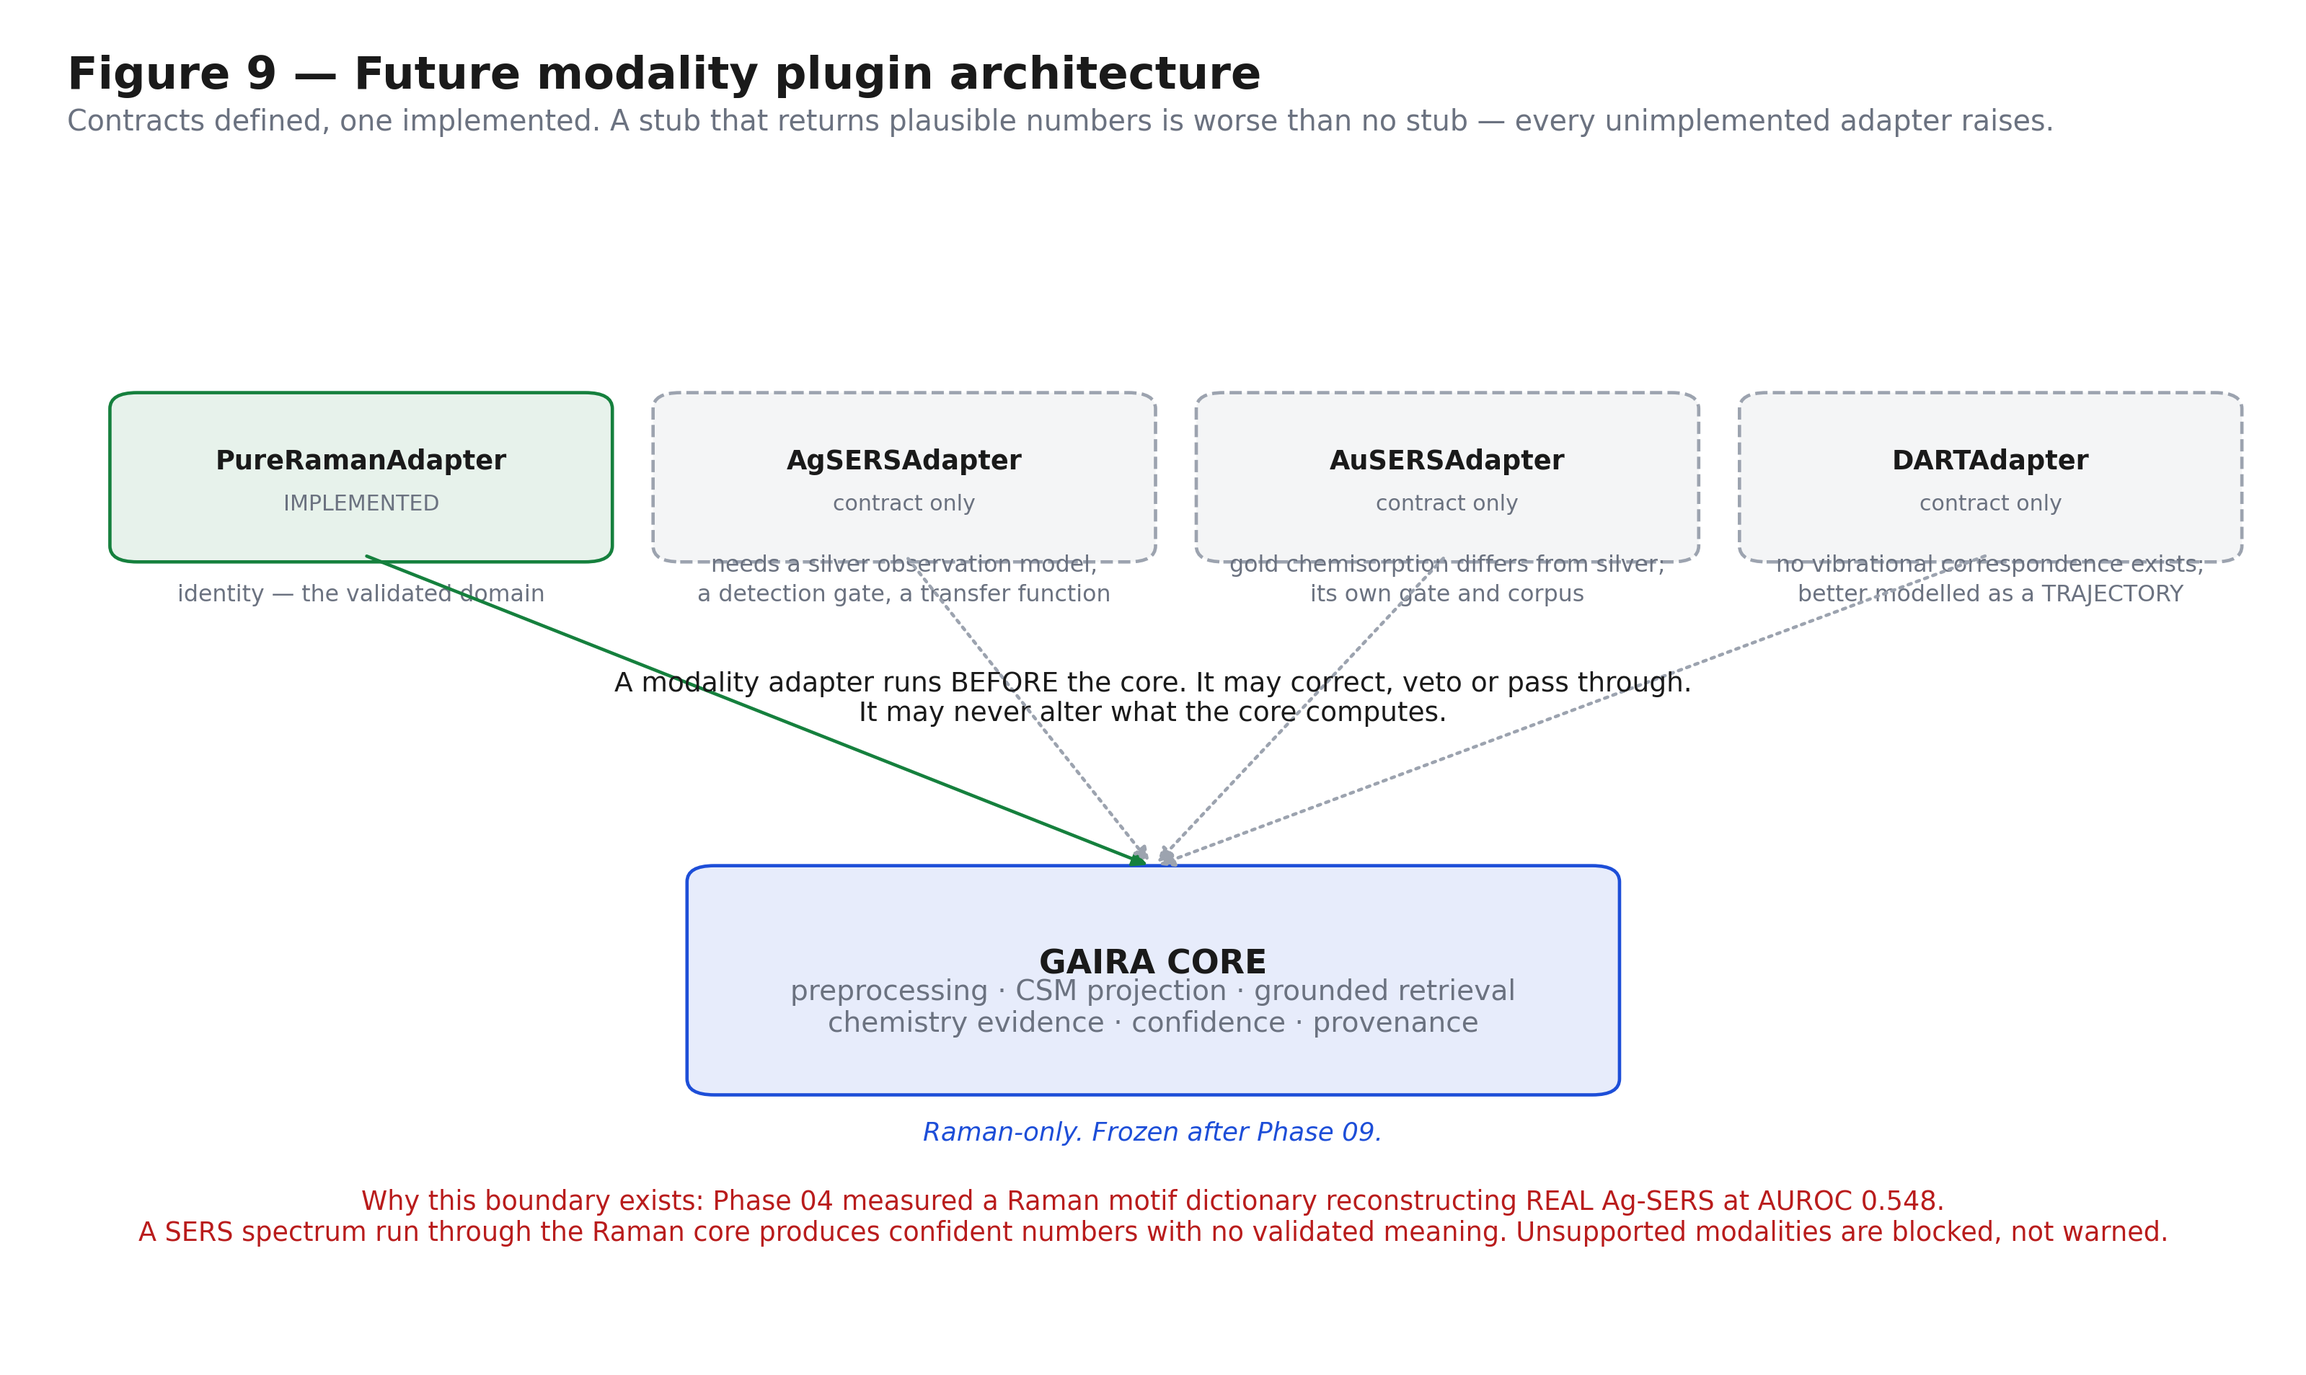
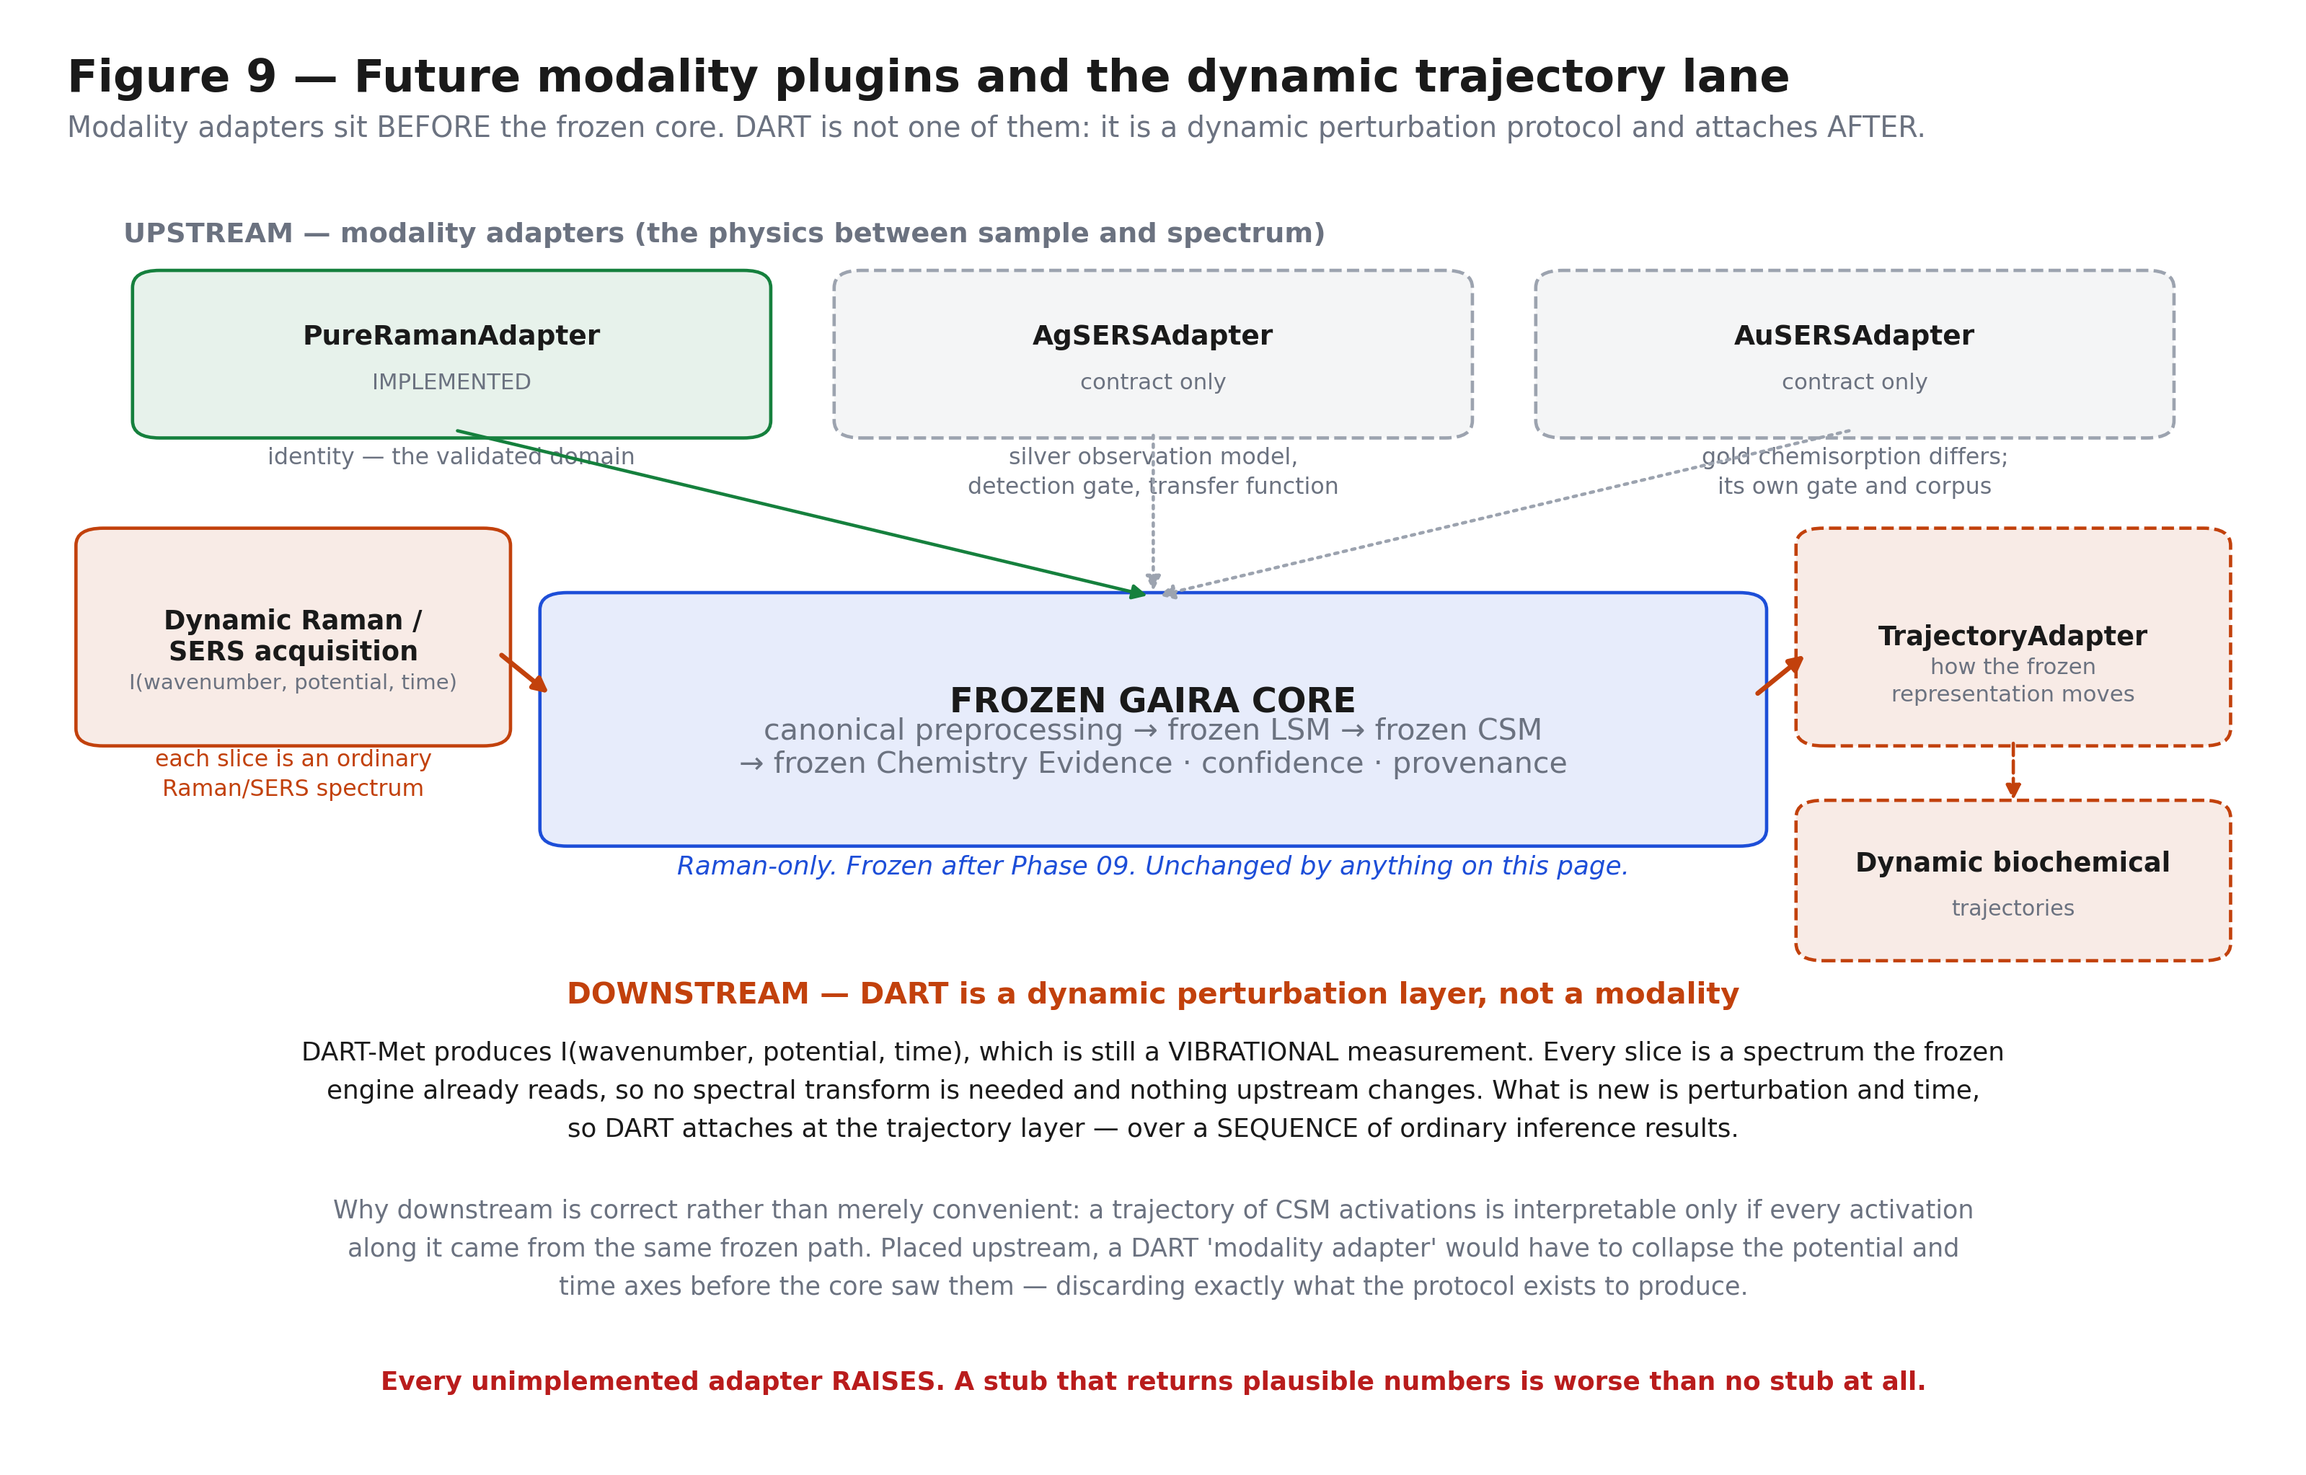
docs(figures): update plugin and agent architecture diagrams
Figures only. No scientific output regenerated.

Figure 9 — "Future modality plugins and the dynamic trajectory lane"

  DART is removed from the upstream modality row, where it never belonged, and
  the figure now shows two distinct lanes around an unchanged frozen core:

    UPSTREAM (before the core)   PureRamanAdapter · AgSERSAdapter ·
                                 AuSERSAdapter — the physics between sample
                                 and spectrum

    DOWNSTREAM (after the core)  Dynamic Raman/SERS acquisition
                                 I(wavenumber, potential, time)
                                     → FROZEN GAIRA CORE (each slice is an
                                       ordinary Raman/SERS spectrum)
                                     → TrajectoryAdapter
                                     → Dynamic biochemical trajectories

  The core panel is captioned "Raman-only. Frozen after Phase 09. Unchanged by
  anything on this page", which is the point of the figure: the frozen spectral
  representation stays untouched and dynamic inference happens after the
  canonical representation, not before it.

Figure 11 — "The agent boundary"

  Strengthened from a two-tier sketch into an explicit directional statement.
  The permitted chain is drawn as one one-directional spine —

      LLM → MCP → Frozen Runtime → Frozen Engine

  — and the forbidden shortcut LLM → scientific computation is drawn beneath it
[…]

diff --git a/results/v7_rebuild/phase10/code/make_figures.py b/results/v7_rebuild/phase10/code/make_figures.py
@@ -27,6 +27,7 @@ DPI = 300
 INK, MUTED, RULE = "#1a1a1a", "#6b7280", "#d1d5db"
 FROZEN, RUNTIME, SURFACE, FUTURE, BAD, GOOD = (
     "#1d4ed8", "#0f766e", "#7c3aed", "#9ca3af", "#b91c1c", "#15803d")
+ACCENT_D = "#c2410c"          # the dynamic / trajectory lane
 plt.rcParams.update({"font.family": "DejaVu Sans", "savefig.dpi": DPI, "figure.dpi": 110})
 
 
@@ -332,36 +333,65 @@ def main() -> int:
             ha="center", fontsize=8.6, color=MUTED)
     save(fig, "F08_provenance_chain.png")
 
-    # ── F09 modality plugins ─────────────────────────────────────────────────
-    fig, ax = canvas(title="Figure 9 — Future modality plugin architecture",
-                     sub="Contracts defined, one implemented. A stub that returns plausible "
-                         "numbers is worse than no stub — every unimplemented adapter raises.")
-    box(ax, 0.30, 0.20, 0.40, 0.16, "GAIRA CORE",
-        "preprocessing · CSM projection · grounded retrieval\nchemistry evidence · confidence · "
-        "provenance", FROZEN, fs=11)
-    ax.text(0.50, 0.16, "Raman-only. Frozen after Phase 09.", ha="center", fontsize=8.6,
-            color=FROZEN, style="italic")
+    # ── F09 modality plugins + the dynamic trajectory lane ──────────────────
+    fig, ax = canvas(h=8.6, title="Figure 9 — Future modality plugins and the dynamic "
+                                  "trajectory lane",
+                     sub="Modality adapters sit BEFORE the frozen core. DART is not one of them: "
+                         "it is a dynamic perturbation protocol and attaches AFTER.")
+    ax.text(0.045, 0.860, "UPSTREAM — modality adapters (the physics between sample and spectrum)",
+            fontsize=9.2, weight="bold", color=MUTED, va="top")
     mods = [("PureRamanAdapter", "IMPLEMENTED", GOOD, "identity — the validated domain"),
             ("AgSERSAdapter", "contract only", FUTURE,
-             "needs a silver observation model,\na detection gate, a transfer function"),
+             "silver observation model,\ndetection gate, transfer function"),
             ("AuSERSAdapter", "contract only", FUTURE,
-             "gold chemisorption differs from silver;\nits own gate and corpus"),
-            ("DARTAdapter", "contract only", FUTURE,
-             "no vibrational correspondence exists;\nbetter modelled as a TRAJECTORY")]
+             "gold chemisorption differs;\nits own gate and corpus")]
     for i, (n, status, colour, note) in enumerate(mods):
-        x = 0.045 + i * 0.24
-        box(ax, x, 0.60, 0.21, 0.115, n, status, colour, fs=8.8,
+        x = 0.055 + i * 0.31
+        box(ax, x, 0.715, 0.27, 0.105, n, status, colour, fs=9.0,
             ls="-" if colour is GOOD else "--")
-        ax.text(x + 0.105, 0.565, note, ha="center", fontsize=7.6, color=MUTED, linespacing=1.4)
-        arrow(ax, x + 0.105, 0.60, 0.50, 0.365, colour, ls="-" if colour is GOOD else ":")
-    ax.text(0.5, 0.475, "A modality adapter runs BEFORE the core. It may correct, veto or pass "
-            "through.\nIt may never alter what the core computes.",
-            ha="center", fontsize=9.0, color=INK)
-    ax.text(0.5, 0.085, "Why this boundary exists: Phase 04 measured a Raman motif dictionary "
-            "reconstructing REAL Ag-SERS at AUROC 0.548.\n"
-            "A SERS spectrum run through the Raman core produces confident numbers with no "
-            "validated meaning. Unsupported modalities are blocked, not warned.",
-            ha="center", fontsize=8.8, color=BAD)
+        ax.text(x + 0.135, 0.703, note, ha="center", va="top", fontsize=7.6, color=MUTED,
+                linespacing=1.4)
+        arrow(ax, x + 0.135, 0.715, 0.50, 0.598, colour, ls="-" if colour is GOOD else ":")
+
+    box(ax, 0.235, 0.430, 0.53, 0.165, "FROZEN GAIRA CORE",
+        "canonical preprocessing → frozen LSM → frozen CSM\n→ frozen Chemistry Evidence · "
+        "confidence · provenance", FROZEN, fs=11.5)
+    ax.text(0.50, 0.418, "Raman-only. Frozen after Phase 09. Unchanged by anything on this page.",
+            ha="center", va="top", fontsize=8.6, color=FROZEN, style="italic")
+
+    box(ax, 0.030, 0.500, 0.180, 0.140, "Dynamic Raman /\nSERS acquisition", "", ACCENT_D,
+        fs=8.8)
+    ax.text(0.120, 0.545, "I(wavenumber, potential, time)", ha="center", va="top",
+            fontsize=7.0, color=MUTED)
+    arrow(ax, 0.210, 0.560, 0.235, 0.528, ACCENT_D, lw=1.6)
+    ax.text(0.120, 0.492, "each slice is an ordinary\nRaman/SERS spectrum", ha="center",
+            va="top", fontsize=7.6, color=ACCENT_D, linespacing=1.4)
+
+    box(ax, 0.790, 0.500, 0.180, 0.140, "TrajectoryAdapter", "", ACCENT_D, fs=8.8, ls="--")
+    ax.text(0.880, 0.556, "how the frozen\nrepresentation moves", ha="center", va="top",
+            fontsize=7.4, color=MUTED, linespacing=1.4)
+    arrow(ax, 0.765, 0.528, 0.790, 0.560, ACCENT_D, lw=1.6)
+    box(ax, 0.790, 0.350, 0.180, 0.100, "Dynamic biochemical", "trajectories", ACCENT_D,
+        fs=8.8, ls="--")
+    arrow(ax, 0.880, 0.500, 0.880, 0.452, ACCENT_D, ls="--")
+
+    ax.text(0.50, 0.330, "DOWNSTREAM — DART is a dynamic perturbation layer, not a modality",
+            ha="center", va="top", fontsize=9.8, weight="bold", color=ACCENT_D)
+    ax.text(0.50, 0.288, "DART-Met produces I(wavenumber, potential, time), which is still a "
+            "VIBRATIONAL measurement. Every slice is a spectrum the frozen\nengine already "
+            "reads, so no spectral transform is needed and nothing upstream changes. What is new "
+            "is perturbation and time,\nso DART attaches at the trajectory layer — over a "
+            "SEQUENCE of ordinary inference results.",
+            ha="center", va="top", fontsize=8.6, color=INK, linespacing=1.7)
+    ax.text(0.50, 0.178, "Why downstream is correct rather than merely convenient: a trajectory "
+            "of CSM activations is interpretable only if every activation\nalong it came from "
+            "the same frozen path. Placed upstream, a DART 'modality adapter' would have to "
+            "collapse the potential and\ntime axes before the core saw them — discarding "
+            "exactly what the protocol exists to produce.",
+            ha="center", va="top", fontsize=8.4, color=MUTED, linespacing=1.7)
+    ax.text(0.50, 0.058, "Every unimplemented adapter RAISES. A stub that returns plausible "
+            "numbers is worse than no stub at all.",
+            ha="center", va="top", fontsize=8.6, color=BAD, weight="bold")
     save(fig, "F09_modality_plugins.png")
 
     # ── F10 context plugins ──────────────────────────────────────────────────
@@ -400,34 +430,62 @@ def main() -> int:
     save(fig, "F10_context_plugins.png")
 
     # ── F11 agent boundary ───────────────────────────────────────────────────
-    fig, ax = canvas(title="Figure 11 — Where a future agent connects",
+    fig, ax = canvas(h=8.6, title="Figure 11 — The agent boundary",
                      sub="An LLM sits ABOVE the validated science, never inside it. Phase 10 "
-                         "ships no model; this is the boundary Phase 11 would respect.")
-    ax.add_patch(mp.Rectangle((0.04, 0.66), 0.92, 0.20, fc="#fef2f2", ec=BAD, lw=1.2,
-                              linestyle="--"))
-    ax.text(0.06, 0.835, "AGENT LAYER — not implemented in Phase 10", fontsize=10,
-            weight="bold", color=BAD)
-    for i, (n, s) in enumerate([("plan", "which tools, in what order"),
-                                ("call MCP tools", "read-only, validated"),
-                                ("narrate", "rephrase the engine's own numbers"),
-                                ("cite", "every claim → a result field")]):
-        box(ax, 0.07 + i * 0.225, 0.685, 0.19, 0.09, n, s, BAD, fs=8.6, ls="--")
-    ax.text(0.5, 0.615, "▼  MCP tool calls only  ▼", ha="center", fontsize=9.5, color=BAD,
-            weight="bold")
-    box(ax, 0.22, 0.44, 0.56, 0.13, "MCP TOOL SERVER — 8 read-only tools",
-        "the same runtime every other surface uses", SURFACE, fs=10.5)
-    box(ax, 0.22, 0.24, 0.56, 0.13, "FROZEN SCIENTIFIC ENGINE",
-        "computes every number an agent is allowed to state", FROZEN, fs=10.5)
-    arrow(ax, 0.50, 0.44, 0.50, 0.375, FROZEN, lw=1.8)
-    left = ("An agent MAY\n\n· choose which tools to call\n· ask for more evidence\n"
-            "· rephrase the deterministic text\n· compare results it obtained\n"
-            "· surface the caveats verbatim")
-    right = ("An agent MUST NEVER\n\n· compute a similarity or an activation\n"
-             "· estimate a chemistry axis\n· re-rank retrieval output\n"
-             "· assert a molecular identification\n· drop a scope warning\n"
-             "· infer a biological or clinical state")
-    ax.text(0.05, 0.19, left, fontsize=8.6, color=GOOD, va="top", linespacing=1.6)
-    ax.text(0.53, 0.19, right, fontsize=8.6, color=BAD, va="top", linespacing=1.6)
+                         "ships no model; this is the boundary Phase 11 must respect.")
+
+    # the permitted chain, drawn as a single one-directional spine
+    ax.text(0.50, 0.885, "THE ONLY PERMITTED CHAIN", ha="center", va="top", fontsize=9.4,
+            weight="bold", color=GOOD)
+    chain = [("LLM", "chooses tools · narrates", BAD),
+             ("MCP", "8 read-only tools", SURFACE),
+             ("FROZEN RUNTIME", "validate · orchestrate", RUNTIME),
+             ("FROZEN ENGINE", "computes every number", FROZEN)]
+    for i, (n, s, colour) in enumerate(chain):
+        x = 0.055 + i * 0.235
+        box(ax, x, 0.735, 0.195, 0.105, n, s, colour, fs=10.2,
+            ls="--" if colour is BAD else "-")
+        if i:
+            arrow(ax, x - 0.038, 0.788, x - 0.002, 0.788, GOOD, lw=2.0)
+    ax.text(0.50, 0.712, "one-directional — nothing flows back up, and the LLM never reaches "
+            "past the MCP layer", ha="center", va="top", fontsize=8.6, color=GOOD,
+            style="italic")
+
+    # the forbidden shortcut
+    ax.text(0.50, 0.650, "AND NEVER", ha="center", va="top", fontsize=9.4, weight="bold",
+            color=BAD)
+    box(ax, 0.245, 0.530, 0.195, 0.085, "LLM", "", BAD, fs=10.2, ls="--")
+    box(ax, 0.560, 0.530, 0.195, 0.085, "scientific computation", "", BAD, fs=9.4, ls="--")
+    arrow(ax, 0.445, 0.572, 0.556, 0.572, BAD, lw=2.0)
+    ax.plot([0.478, 0.522], [0.548, 0.596], color=BAD, lw=3.0, zorder=5)
+    ax.plot([0.478, 0.522], [0.596, 0.548], color=BAD, lw=3.0, zorder=5)
+
+    # may / must never
+    ax.add_patch(mp.FancyBboxPatch((0.045, 0.115), 0.42, 0.355,
+                                   boxstyle="round,pad=0.008,rounding_size=0.012",
+                                   fc="#f0fdf4", ec=GOOD, lw=1.2))
+    ax.text(0.065, 0.442, "AN AGENT MAY", fontsize=10.5, weight="bold", color=GOOD, va="top")
+    for i, s in enumerate(("choose tools", "explain", "compare", "narrate", "summarise")):
+        ax.text(0.075, 0.398 - i * 0.048, f"·  {s}", fontsize=9.6, color=INK, va="top")
+    ax.text(0.065, 0.152, "…and surface every caveat verbatim.", fontsize=8.4, color=MUTED,
+            va="top", style="italic")
+
+    ax.add_patch(mp.FancyBboxPatch((0.535, 0.115), 0.42, 0.355,
+                                   boxstyle="round,pad=0.008,rounding_size=0.012",
+                                   fc="#fef2f2", ec=BAD, lw=1.2))
+    ax.text(0.555, 0.442, "AN AGENT IS FORBIDDEN FROM", fontsize=10.5, weight="bold", color=BAD,
+            va="top")
+    for i, s in enumerate(("computing chemistry", "computing similarity",
+                           "estimating concentrations", "re-ranking",
+                           "diagnosing disease", "modifying inference")):
+        ax.text(0.565, 0.398 - i * 0.043, f"·  {s}", fontsize=9.6, color=INK, va="top")
+    ax.text(0.555, 0.138, "Every number it states must trace to an InferenceResult field.",
+            fontsize=8.4, color=MUTED, va="top", style="italic")
+
+    ax.text(0.50, 0.062, "Phase 10 ships no model, requires no cloud account, and makes no "
+            "network call. The MCP server is a provider;\nwhatever consumes it lives entirely "
+            "outside the process.", ha="center", va="top", fontsize=8.8, color=INK,
+            linespacing=1.6)
     save(fig, "F11_agent_boundary.png")
 
     # ── F12 parity validation ────────────────────────────────────────────────
